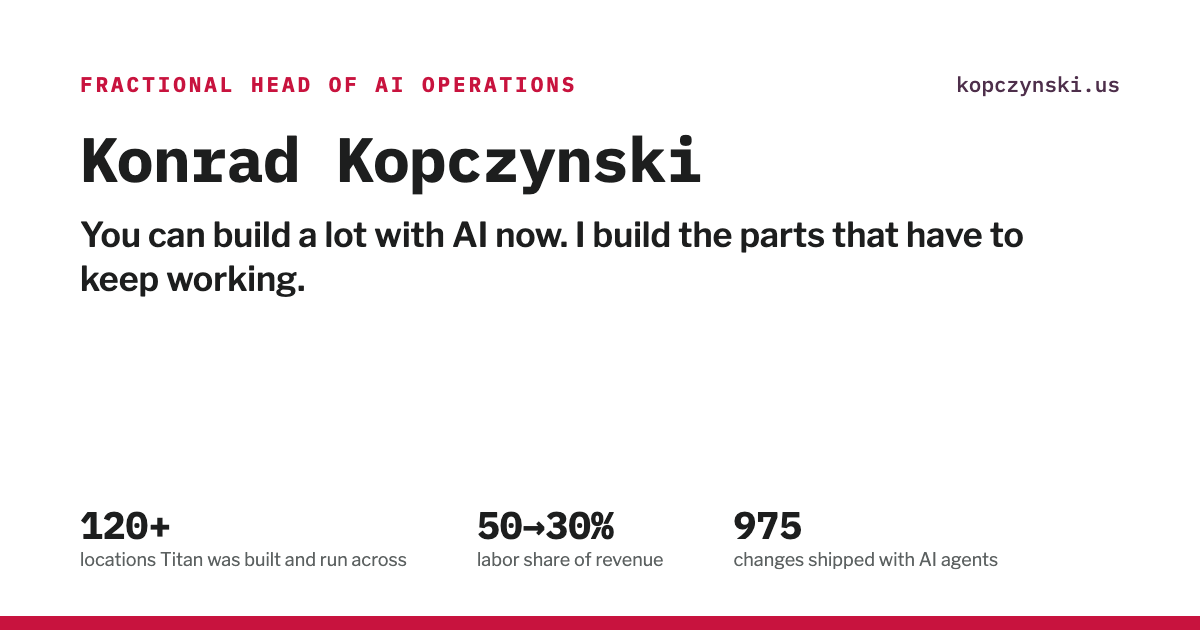
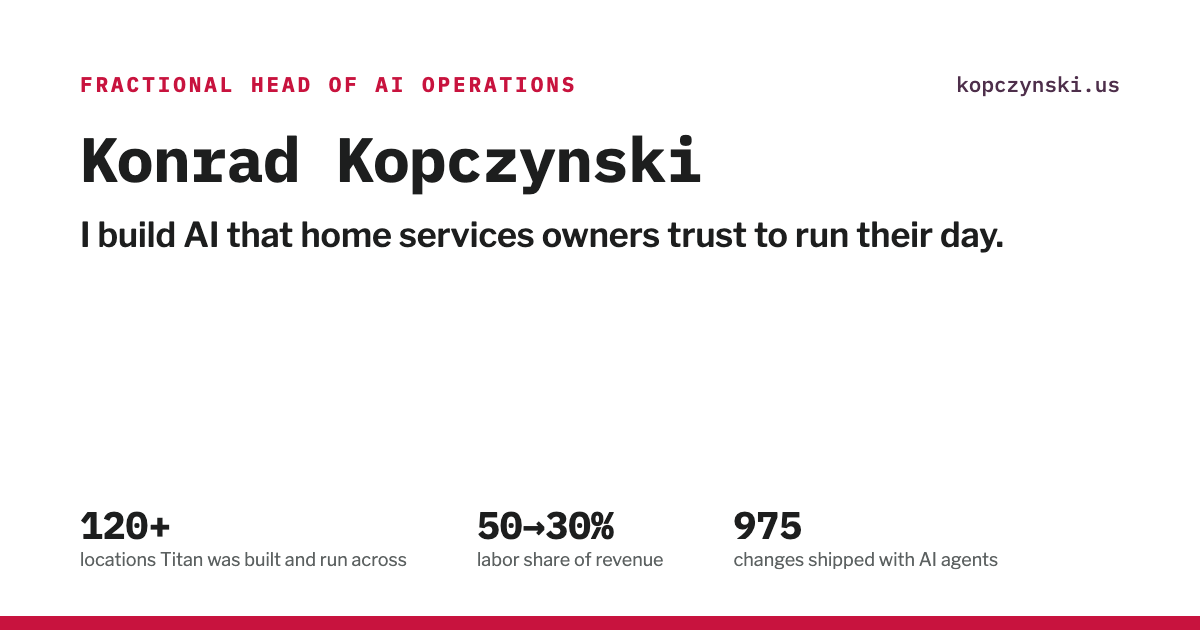
Homepage: home services headline, one daily list, build diagram, open-book call; voice pass

Changed region(s): [[0.0617, 0.3317, 0.8633, 0.3921], [0.0617, 0.4222, 0.2467, 0.4825]]

diff --git a/index.html b/index.html
@@ -4,21 +4,21 @@
 <meta charset="utf-8">
 <meta name="viewport" content="width=device-width,initial-scale=1">
 <title>Konrad Kopczynski · Fractional head of AI operations</title>
-<meta name="description" content="I run AI operations for service businesses: the systems connected, the numbers right, and agents doing the follow-ups and checks, with a person approving every send. Built and ran Titan across 120+ home-services locations.">
+<meta name="description" content="I build AI that home services owners trust to run their day. I built and ran Titan across 120+ home services locations, and an AI operations agent works next to the GMs in my own company.">
 <meta property="og:title" content="Konrad Kopczynski · Fractional head of AI operations">
-<meta property="og:description" content="I run AI operations for service businesses: the systems connected, the numbers right, and agents doing the follow-ups and checks, with a person approving every send. Built and ran Titan across 120+ home-services locations.">
+<meta property="og:description" content="I build AI that home services owners trust to run their day. I built and ran Titan across 120+ home services locations, and an AI operations agent works next to the GMs in my own company.">
 <meta property="og:url" content="https://kopczynski.us/">
 <meta property="og:type" content="profile">
 <script>
 (function(){try{var t=localStorage.getItem("theme");if(t==="light"||t==="dark")document.documentElement.setAttribute("data-theme",t);}catch(e){}})();
 </script>
-<meta property="og:image" content="https://kopczynski.us/og.png?v=2">
+<meta property="og:image" content="https://kopczynski.us/og.png?v=3">
 <meta property="og:image:width" content="1200">
 <meta property="og:image:height" content="630">
-<meta property="og:image:alt" content="Konrad Kopczynski, fractional head of AI operations: you can build a lot with AI now, I build the parts that have to keep working. 120+ locations Titan was built and run across, field labor 50% to 30% of revenue.">
+<meta property="og:image:alt" content="Konrad Kopczynski: I build AI that home services owners trust to run their day. 120+ locations Titan was built and run across, field labor 50% to 30% of revenue.">
 <meta property="og:site_name" content="Konrad Kopczynski">
 <meta name="twitter:card" content="summary_large_image">
-<meta name="twitter:image" content="https://kopczynski.us/og.png?v=2">
+<meta name="twitter:image" content="https://kopczynski.us/og.png?v=3">
 <link rel="icon" href="/favicon.ico" sizes="any">
 <link rel="icon" type="image/png" sizes="32x32" href="/favicon-32.png">
 <link rel="icon" type="image/png" sizes="192x192" href="/icon-192.png">
@@ -185,9 +185,22 @@ a:focus-visible{outline:2px solid var(--accent); outline-offset:2px}
 <style>
 header h1.headline{font-size:clamp(28px,5.2vw,42px); line-height:1.12}
 .cta{display:flex; flex-wrap:wrap; gap:12px 20px; align-items:center}
+.flow{list-style:none; margin:4px 0; padding:0; display:grid; grid-template-columns:1fr auto 1fr auto 1fr auto 1fr; gap:10px 6px; align-items:stretch}
+.flow .st{background:var(--surface); border:1px solid var(--rule); border-radius:6px; padding:12px 12px 14px; display:grid; gap:3px; align-content:start}
+.flow .st.live{border-color:var(--accent); background:var(--accent-soft)}
+.flow .k{font-family:var(--mono); font-size:11.5px; color:var(--accent)}
+.flow b{font-size:14.5px; color:var(--ink); line-height:1.3}
+.flow .st span:last-child{font-size:13px; color:var(--muted); line-height:1.4}
+.flow .ar{display:grid; place-items:center; color:var(--accent); font-family:var(--mono); font-size:16px}
+.flow .dn{grid-column:7; justify-self:center}
+@media (max-width:640px){
+  .flow{grid-template-columns:1fr; gap:4px}
+  .flow .dn{grid-column:auto}
+  .flow .ar:not(.dn){transform:rotate(90deg)}
+}
 a.btn{display:inline-block; text-decoration:none; color:#fff}
 a.btn:hover{color:#fff}
-#offers,#own-company{scroll-margin-top:72px}
+#offers,#runs,#build{scroll-margin-top:72px}
 </style>
 </head>
 <body>
@@ -199,12 +212,12 @@ a.btn:hover{color:#fff}
 <div class="page">
   <header>
     <div class="role"><span>Fractional head of AI operations</span><span>Konrad Kopczynski · Kingston, NY</span></div>
-    <h1 class="headline">You can build a lot with AI now. I build the parts that have to keep working.</h1>
-    <p class="lede">Most owners I talk to have built something with AI by now: a dashboard, a scheduler, a few Claude or ChatGPT tools. Then every tool is one more thing to maintain, nobody is sure the numbers are right, and the owner is the only one who can fix it.</p>
-    <p class="lede">I take that on. I connect the systems you already run on, make sure the numbers mean what they say, and put AI agents to work on the follow-ups and checks that slip when everyone is busy. A person approves anything that goes out. I work with a few companies at a time.</p>
+    <h1 class="headline">I build AI that home services owners trust to run their day.</h1>
+    <p class="lede">Most owners I talk to have built a few AI tools by now. Each one is another thing to maintain, and usually the owner is the only one who knows how to fix it.</p>
+    <p class="lede">I connect the systems you already use so the numbers are right, then set up AI agents for the follow-ups that slip when the team is busy. A person approves anything that goes out, and I work with a few companies at a time.</p>
     <div class="cta">
       <a class="btn" data-book href="https://cal.com/kopczynski/30min?r=home">Book a 30-minute call</a>
-      <a href="#own-company">See what runs in my own company &darr;</a>
+      <a href="#runs">See what runs every day &darr;</a>
     </div>
   </header>
 
@@ -215,28 +228,44 @@ a.btn:hover{color:#fff}
     <div class="fig"><b>975</b><span>Changes shipped by one operator running AI agents</span></div>
   </div>
 
-  <section id="own-company">
-    <h2>What runs in my own company</h2>
-    <p class="lede">At my own two-location home-services company, an AI operations agent works alongside the GMs. It reads our field-service software, our phone and text lines, the shared inbox and the crew WhatsApp groups, and runs a set of checks:</p>
+  <section id="runs">
+    <h2>What runs every day</h2>
+    <p class="lede">I built Titan, an AI operating system for home services companies, and ran it across 120+ locations in two franchise systems. In my own two-location company, an AI operations agent now works next to the GMs on top of it, reading our field-service software, phone lines, shared inbox and crew WhatsApp groups. A day looks like this:</p>
     <ul class="fitlist">
-      <li><strong>Next-morning closeout.</strong> Were yesterday's jobs closed out and invoiced? It reads the job notes and messages first, so it only nudges when something is actually missing.</li>
-      <li><strong>Unpaid invoices.</strong> Follow-up texts go out, except to anyone with a complaint, a dispute, a cash payment or a recent text.</li>
-      <li><strong>GM follow-through.</strong> Before it flags a slow reply, it checks the field system to see whether the work already got done.</li>
-      <li><strong>Monday sweep.</strong> It confirms the week's appointments. One Monday it found 95 visits and sent 27 confirmations after a single approval.</li>
-      <li><strong>Weekly report review</strong>, and <strong>one-off watches</strong> for a specific event.</li>
+      <li><strong>3am, data check.</strong> Field-service data is reconciled overnight, so the morning numbers are right.</li>
+      <li><strong>5am, the numbers.</strong> Every manager and salesperson gets yesterday's results against target. Field labor went from 50% to 30% of revenue once managers saw dollars per van every morning.</li>
+      <li><strong>8:15, closeout.</strong> Were yesterday's jobs closed out and invoiced? The agent reads job notes and messages first, so it only nudges when something is actually missing.</li>
+      <li><strong>8:30, unpaid invoices.</strong> Follow-up texts go out, except to anyone with a complaint, a dispute, a cash payment or a recent text. Nearly 100% of invoices get collected, and about $20K of bad debt was recovered.</li>
+      <li><strong>9am and 4pm, GM follow-through.</strong> Before it flags a slow reply, the agent checks whether the work already got done.</li>
+      <li><strong>During the day, dispatch.</strong> The GM books new jobs next to existing work and pulls future jobs into slots that open up.</li>
+      <li><strong>6pm, what's left.</strong> Every visit from today that still needs invoicing or payment.</li>
+      <li><strong>Any time someone applies.</strong> They get a text within minutes, a short screening conversation and an interview booked with the GM as soon as possible. Cost per hire fell from about $1,000 to $100 to $150.</li>
+      <li><strong>Mondays, the week ahead.</strong> The weekly report, plus appointment confirmations. One Monday the agent found 95 visits and sent 27 confirmations after a single approval.</li>
     </ul>
-    <p class="lede">I approve every message before it's sent. It works the way the team already works: same software, same phone lines, same group chats. <a href="/proof/titan/#day">See a day of it in the case study</a>.</p>
+    <p class="lede">Messages to customers go out after a person approves them, on the same software, phone lines and group chats the team already uses. <a href="/proof/titan/#day">See a full day in the case study</a> or <a href="/proof/titan/#walkthrough">watch the 6-minute walkthrough</a>.</p>
   </section>
 
-  <section>
-    <h2>Titan</h2>
-    <p class="lede">Before this, I built Titan, an AI operating system for multi-location home-services businesses, and ran it across 120+ locations in two franchise systems. It handled reporting, quoting, invoicing, collections, recruiting and dispatch.</p>
-    <ul class="fitlist">
-      <li>Field labor fell from 50% to 30% of revenue.</li>
-      <li>Cost per hire fell from about $1,000 to $100 to $150, with an AI agent that screens applicants by text.</li>
-      <li>Nearly 100% of invoices collected, and about $20K of bad debt recovered.</li>
-    </ul>
-    <p class="lede"><a href="/proof/titan/#walkthrough">Watch the 6-minute walkthrough</a> or <a href="/proof/titan/">read the case study</a>.</p>
+  <section id="build">
+    <h2>How I build</h2>
+    <p class="lede">I built Titan by running AI coding agents in parallel, 80+ at a time, and shipped 975 changes, about the output of a seven-person engineering team. Every change goes through the same path:</p>
+    <ol class="flow" aria-label="How every change ships">
+      <li class="st"><span class="k">1</span><b>Written plan</b><span>I approve it before any code</span></li>
+      <li class="ar" aria-hidden="true">&rarr;</li>
+      <li class="st"><span class="k">2</span><b>Agents build</b><span>80+ in parallel, each in its own copy of the code</span></li>
+      <li class="ar" aria-hidden="true">&rarr;</li>
+      <li class="st"><span class="k">3</span><b>AI review</b><span>Four reviewers, one trained on my own past reviews</span></li>
+      <li class="ar" aria-hidden="true">&rarr;</li>
+      <li class="st"><span class="k">4</span><b>21 checks</b><span>Automated, on every change</span></li>
+      <li class="ar dn" aria-hidden="true">&darr;</li>
+      <li class="st"><span class="k">5</span><b>Own preview</b><span>A live copy, tested in a browser</span></li>
+      <li class="ar" aria-hidden="true">&rarr;</li>
+      <li class="st"><span class="k">6</span><b>My approval</b><span>I sign off on every change</span></li>
+      <li class="ar" aria-hidden="true">&rarr;</li>
+      <li class="st"><span class="k">7</span><b>Merge queue</b><span>One at a time, refuses anything failing</span></li>
+      <li class="ar" aria-hidden="true">&rarr;</li>
+      <li class="st live"><span class="k">8</span><b>Live</b><span>A broken deploy rolls itself back</span></li>
+    </ol>
+    <p class="lede">Client work gets the same setup. Agents only write where that's been turned on, approvals depend on risk and role, spending is capped, and there's an off switch.</p>
   </section>
 
   <section id="offers">
@@ -244,25 +273,19 @@ a.btn:hover{color:#fff}
     <div class="strengths">
       <div class="strength"><span class="n">1</span><div>
         <h3>Fractional head of AI operations, for businesses with several locations</h3>
-        <p>I find the one number that matters most across your locations, build the smallest system that moves it, and keep it running. It starts with a two-week paid audit, then about 4 days a month. <a href="/ai-ops/">How it works</a></p>
+        <p>We pick the one number that matters most across your locations, and I build what moves it and keep it running. It starts with a two-week paid audit, then about 4 days a month. <a href="/ai-ops/">How it works</a></p>
       </div></div>
       <div class="strength"><span class="n">2</span><div>
         <h3>A retainer to keep running what you've built</h3>
-        <p>For owners who have built their own AI tools. I review what you have and tell you what to keep, what to fix and what to switch off. Then I connect your systems (Jobber, QuickBooks, your phones) so the numbers mean what they say, and keep it all working as the tools and models change. You can text or email me any question and get an answer within 6 business hours.</p>
+        <p>I go through the AI tools you've built and tell you which ones are worth keeping. Then I connect them to Jobber, QuickBooks and your phones, and keep them working as the tools change.</p>
+        <p>Text or email me any question and you'll get an answer within 6 business hours.</p>
       </div></div>
       <div class="strength"><span class="n">3</span><div>
         <h3>An AI build sprint, for teams already building with AI</h3>
-        <p>An architecture and security review of what you're building and what it costs to run, then a build pipeline your team owns, with review, tests and a preview on every change. A 30-day sprint, then 1 to 2 days a week if it's useful.</p>
+        <p>I review the architecture, security and running costs of what you're building, then set up the build pipeline above on your code, owned by your team. It's a 30-day sprint, then 1 to 2 days a week if it's useful.</p>
       </div></div>
     </div>
-    <p class="lede">Every engagement starts the same way: a 30-minute call, then a short written note on what to build, what to buy and what your team can do themselves.</p>
-  </section>
-
-  <section>
-    <h2>How I build</h2>
-    <p class="lede"><strong>Building it is the easy part. Keeping it running is the work.</strong></p>
-    <p class="lede">I built Titan by running AI coding agents in parallel, 80+ at a time, and shipped 975 changes, about the output of a seven-person engineering team. Every change gets a written plan, AI review for safety, architecture and test coverage (plus a reviewer trained on my own review history), 21 automated checks and its own preview. A merge queue refuses anything failing, and a broken deploy rolls itself back.</p>
-    <p class="lede">The same discipline goes into anything I build for a client: approvals by risk and role, spend caps, an off switch, and write access only where it's turned on.</p>
+    <p class="lede">Every engagement starts with the 30-minute call below.</p>
   </section>
 
   <section>
@@ -304,12 +327,12 @@ a.btn:hover{color:#fff}
         </div>
       </div>
     </div>
-    <div class="next"><span class="tag">Early on AI</span><p>In January 2023 I wrote that AI would commoditize agency services, then led that shift at Croud.</p></div>
   </section>
 
   <section>
-    <h2>Start with one question</h2>
-    <p class="lede">Tell me the number you'd most like to trust, or the thing you built that you're tired of maintaining. In 30 minutes you'll get my honest view of whether it's worth taking on, and how I'd start.</p>
+    <h2>Bring me one problem</h2>
+    <p class="lede">I'm an open book. Bring one problem to a 30-minute call, like a report you don't trust or a tool you're tired of maintaining.</p>
+    <p class="lede">We'll work it out together on the call, and I'll show you how I'd build it. You can run with it yourself or have me build it.</p>
     <div class="cta">
       <a class="btn" data-book href="https://cal.com/kopczynski/30min?r=home">Book a 30-minute call</a>
       <span>or email <a href="mailto:konrad@kopczynski.us">konrad@kopczynski.us</a></span>
@@ -317,7 +340,7 @@ a.btn:hover{color:#fff}
   </section>
 
   <footer>
-    <span>BS Economics, The George Washington University, 2010 · NCAA Division I swimmer</span>
+    <span>Konrad Kopczynski · Kingston, NY</span>
     <a class="contact" href="mailto:konrad@kopczynski.us">konrad@kopczynski.us</a>
   </footer>
 </div>
